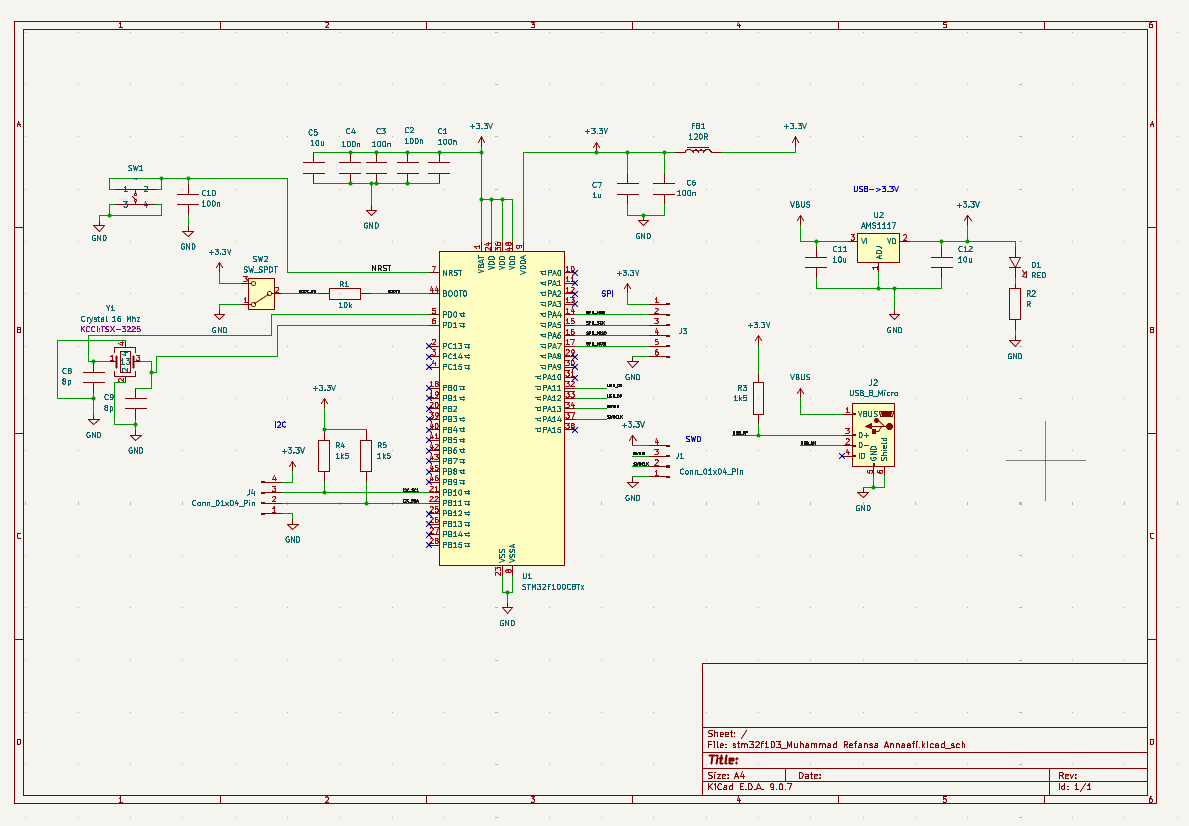
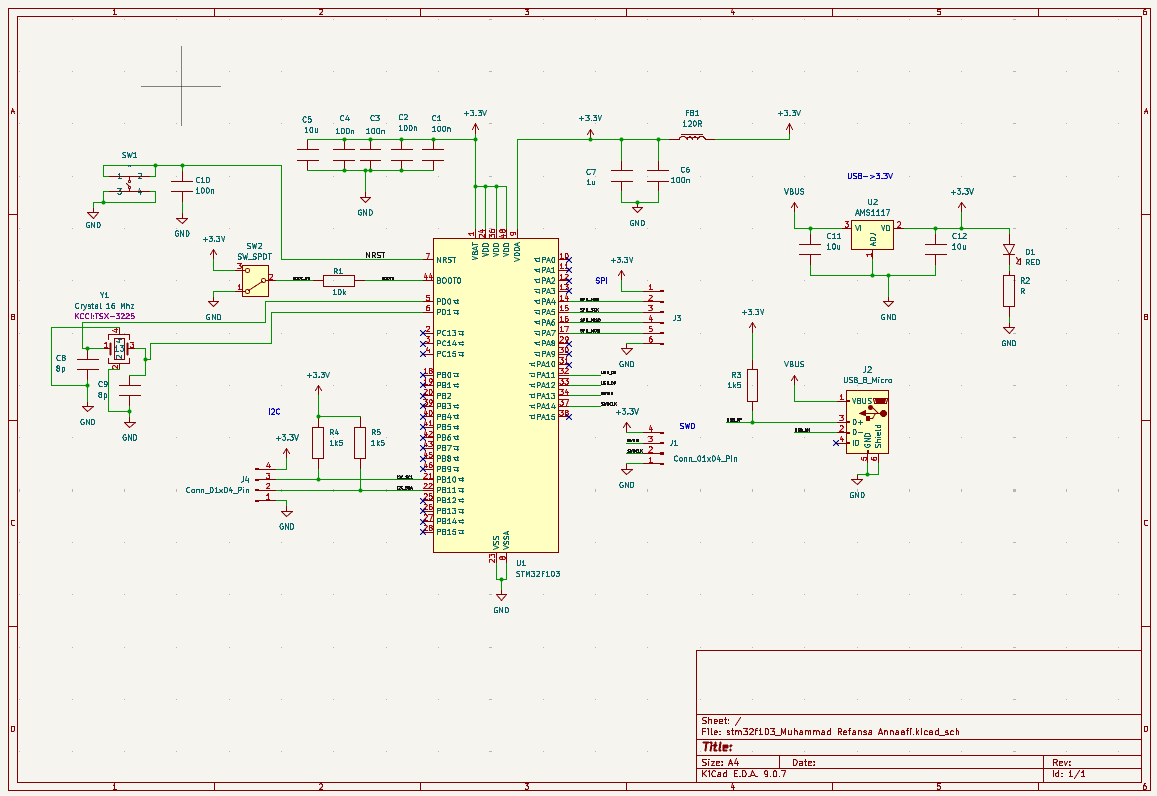
Rename MCU to STM32F103 and set R2 to 1k
Update schematic, BOM, README, and schematic screenshot.

diff --git a/README.md b/README.md
@@ -6,7 +6,7 @@ A compact 2-layer STM32F103 (LQFP-48) breakout board designed in **KiCad 9**. It
 
 ## Features
 
-- **MCU:** STM32F1 in LQFP-48 (U1). The schematic uses the KiCad `STM32F100C8Tx` symbol, which has the same LQFP-48 pinout used for an STM32F103C8T6.
+- **MCU:** STM32F103 in LQFP-48 (U1)
 - **Clock:** 16 MHz crystal (TSX-3225) with 8 pF load capacitors
 - **Power:** USB Micro-B → AMS1117-3.3 LDO → 3.3 V, with a ferrite bead (120 Ω) filtering VDDA
 - **USB:** D+ pull-up (1k5) on PA12
@@ -43,7 +43,7 @@ A compact 2-layer STM32F103 (LQFP-48) breakout board designed in **KiCad 9**. It
 
 | Ref | Value | Footprint | Qty |
 |---|---|---|---|
-| U1 | STM32F1 (LQFP-48) | LQFP-48_7x7mm_P0.5mm | 1 |
+| U1 | STM32F103 | LQFP-48_7x7mm_P0.5mm | 1 |
 | U2 | AMS1117-3.3 | SOT-223-3 | 1 |
 | Y1 | 16 MHz crystal | TSX-3225 | 1 |
 | J2 | USB Micro-B | Würth 629105150521 | 1 |
@@ -54,7 +54,7 @@ A compact 2-layer STM32F103 (LQFP-48) breakout board designed in **KiCad 9**. It
 | C8, C9 | 8 pF | 0603 | 2 |
 | R1 | 10 kΩ | 0603 | 1 |
 | R3, R4, R5 | 1.5 kΩ | 0603 | 3 |
-| R2 | LED resistor | 0603 | 1 |
+| R2 | 1 kΩ (LED resistor) | 0603 | 1 |
 | D1 | Red LED | 0603 | 1 |
 | SW1 | Tactile switch | 434133025816 | 1 |
 | SW2 | SPDT slide switch | PCM12 | 1 |
